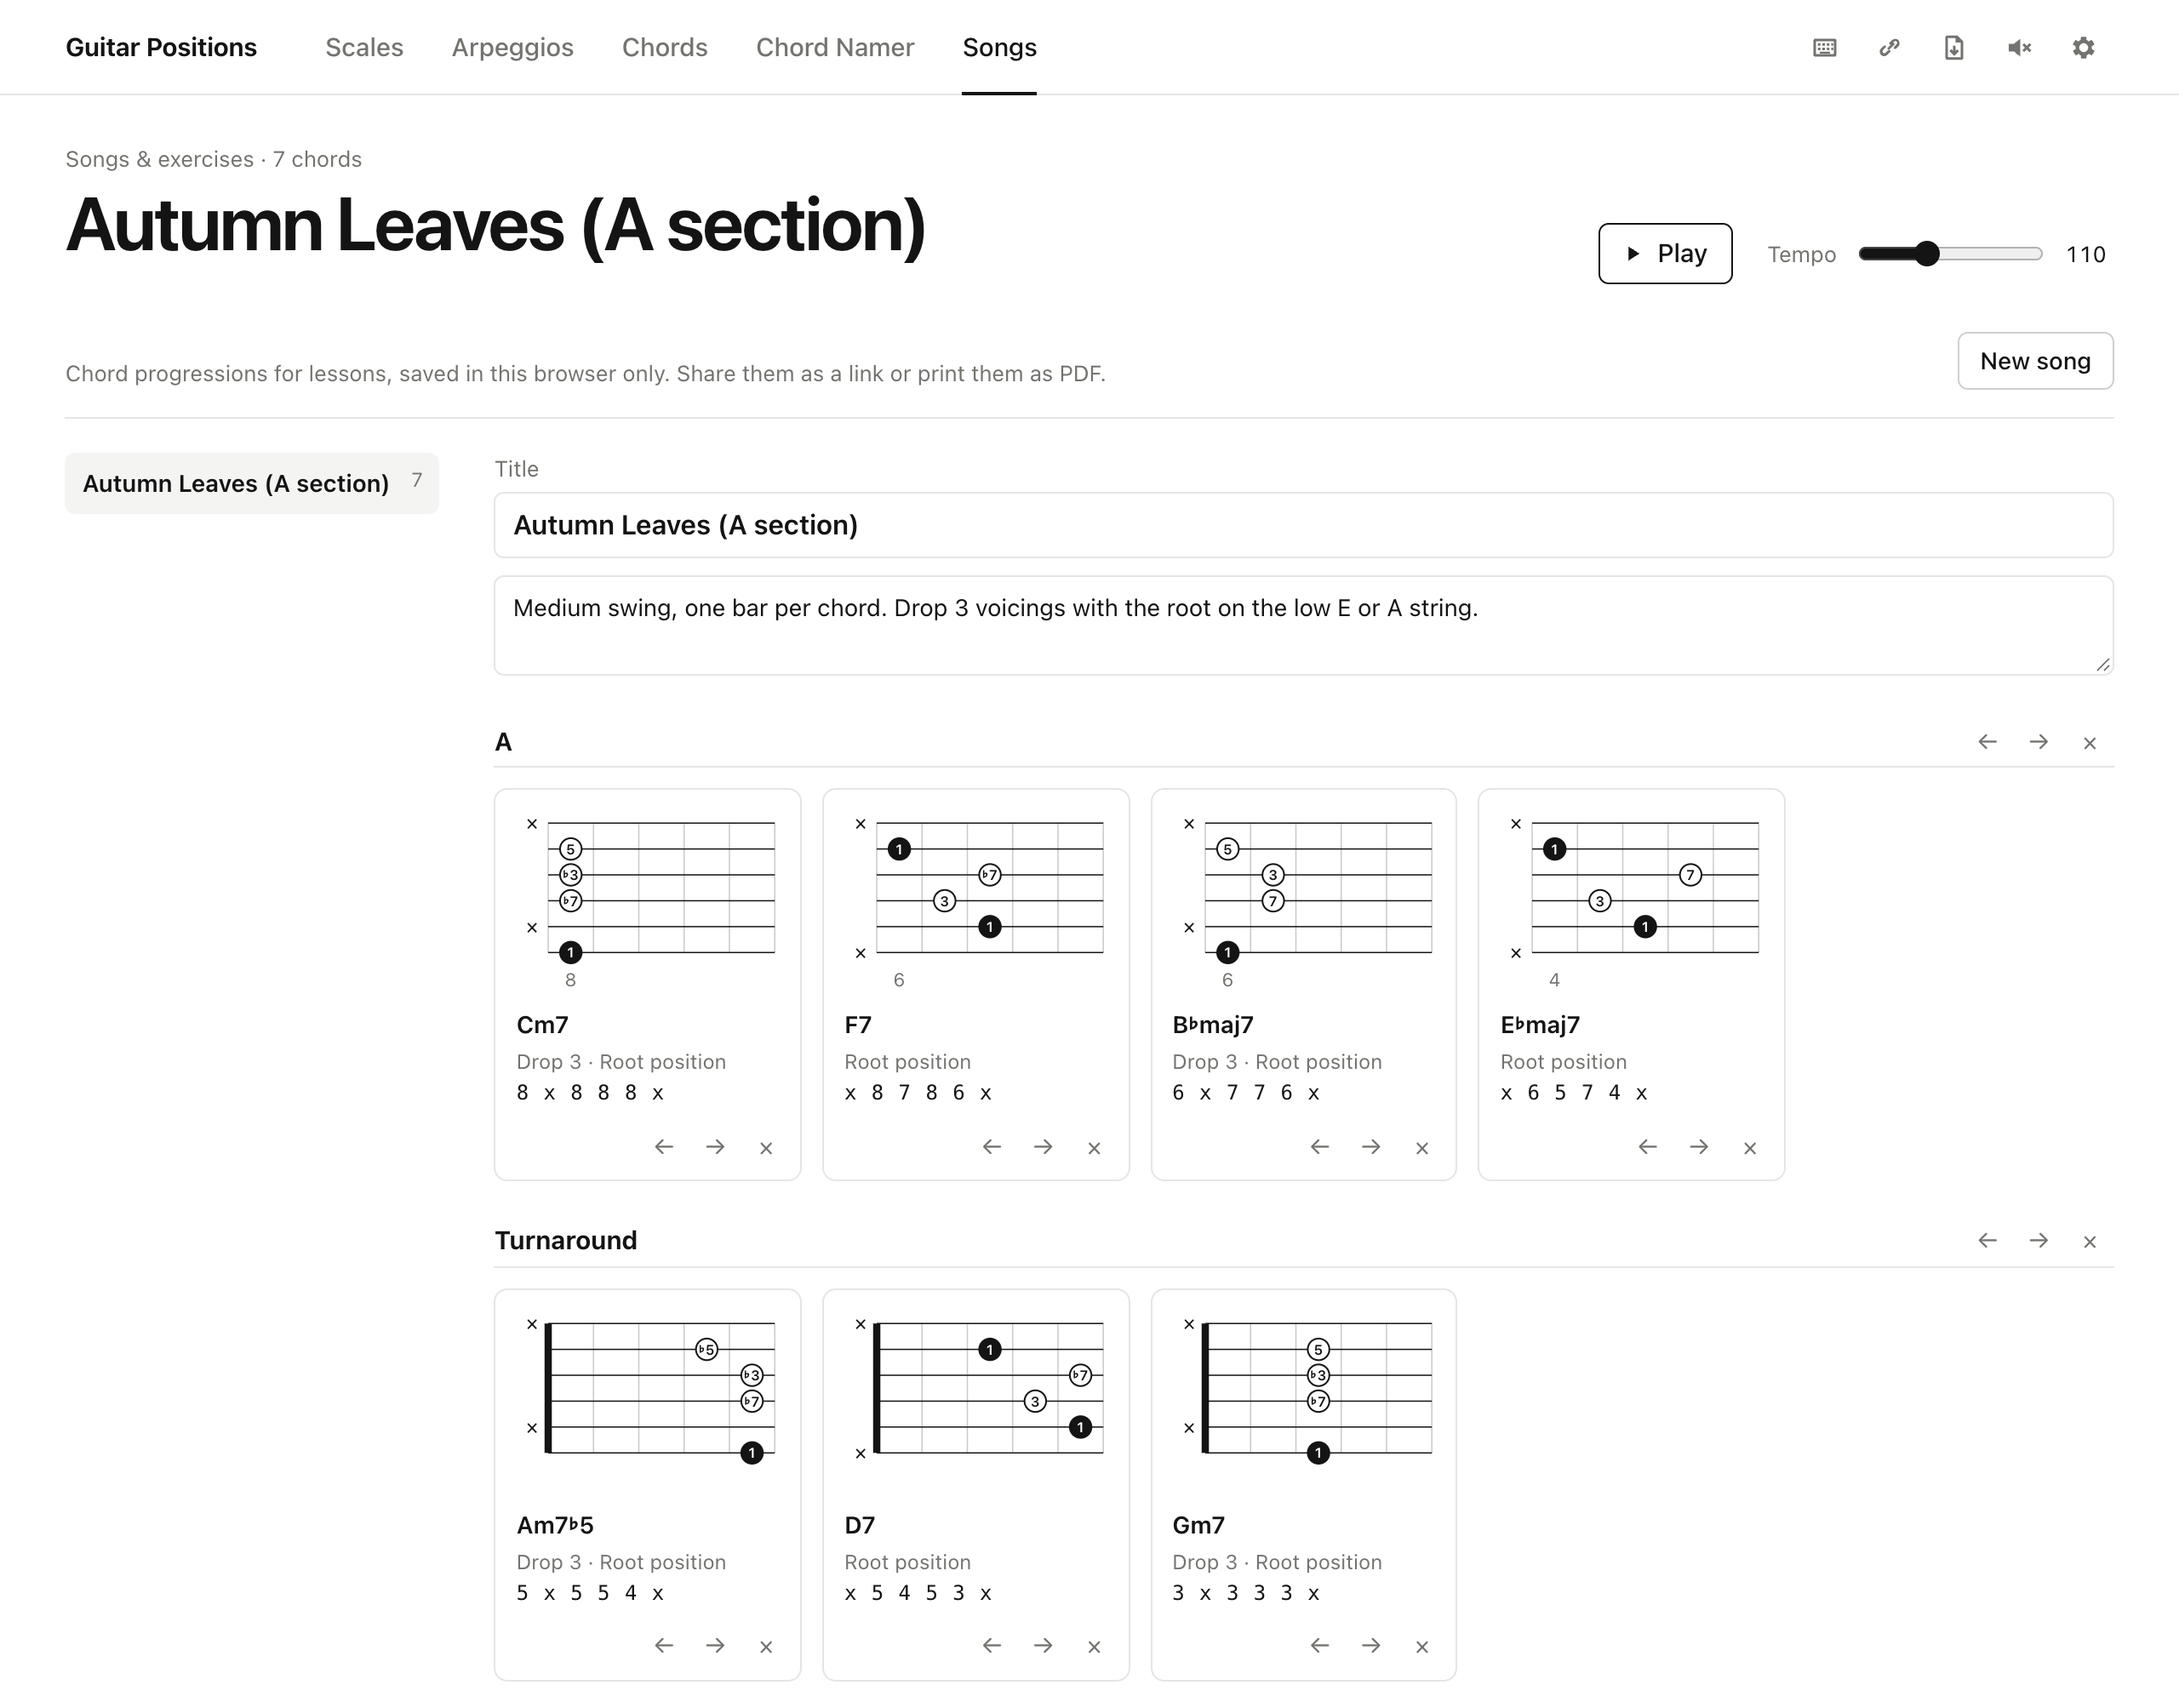
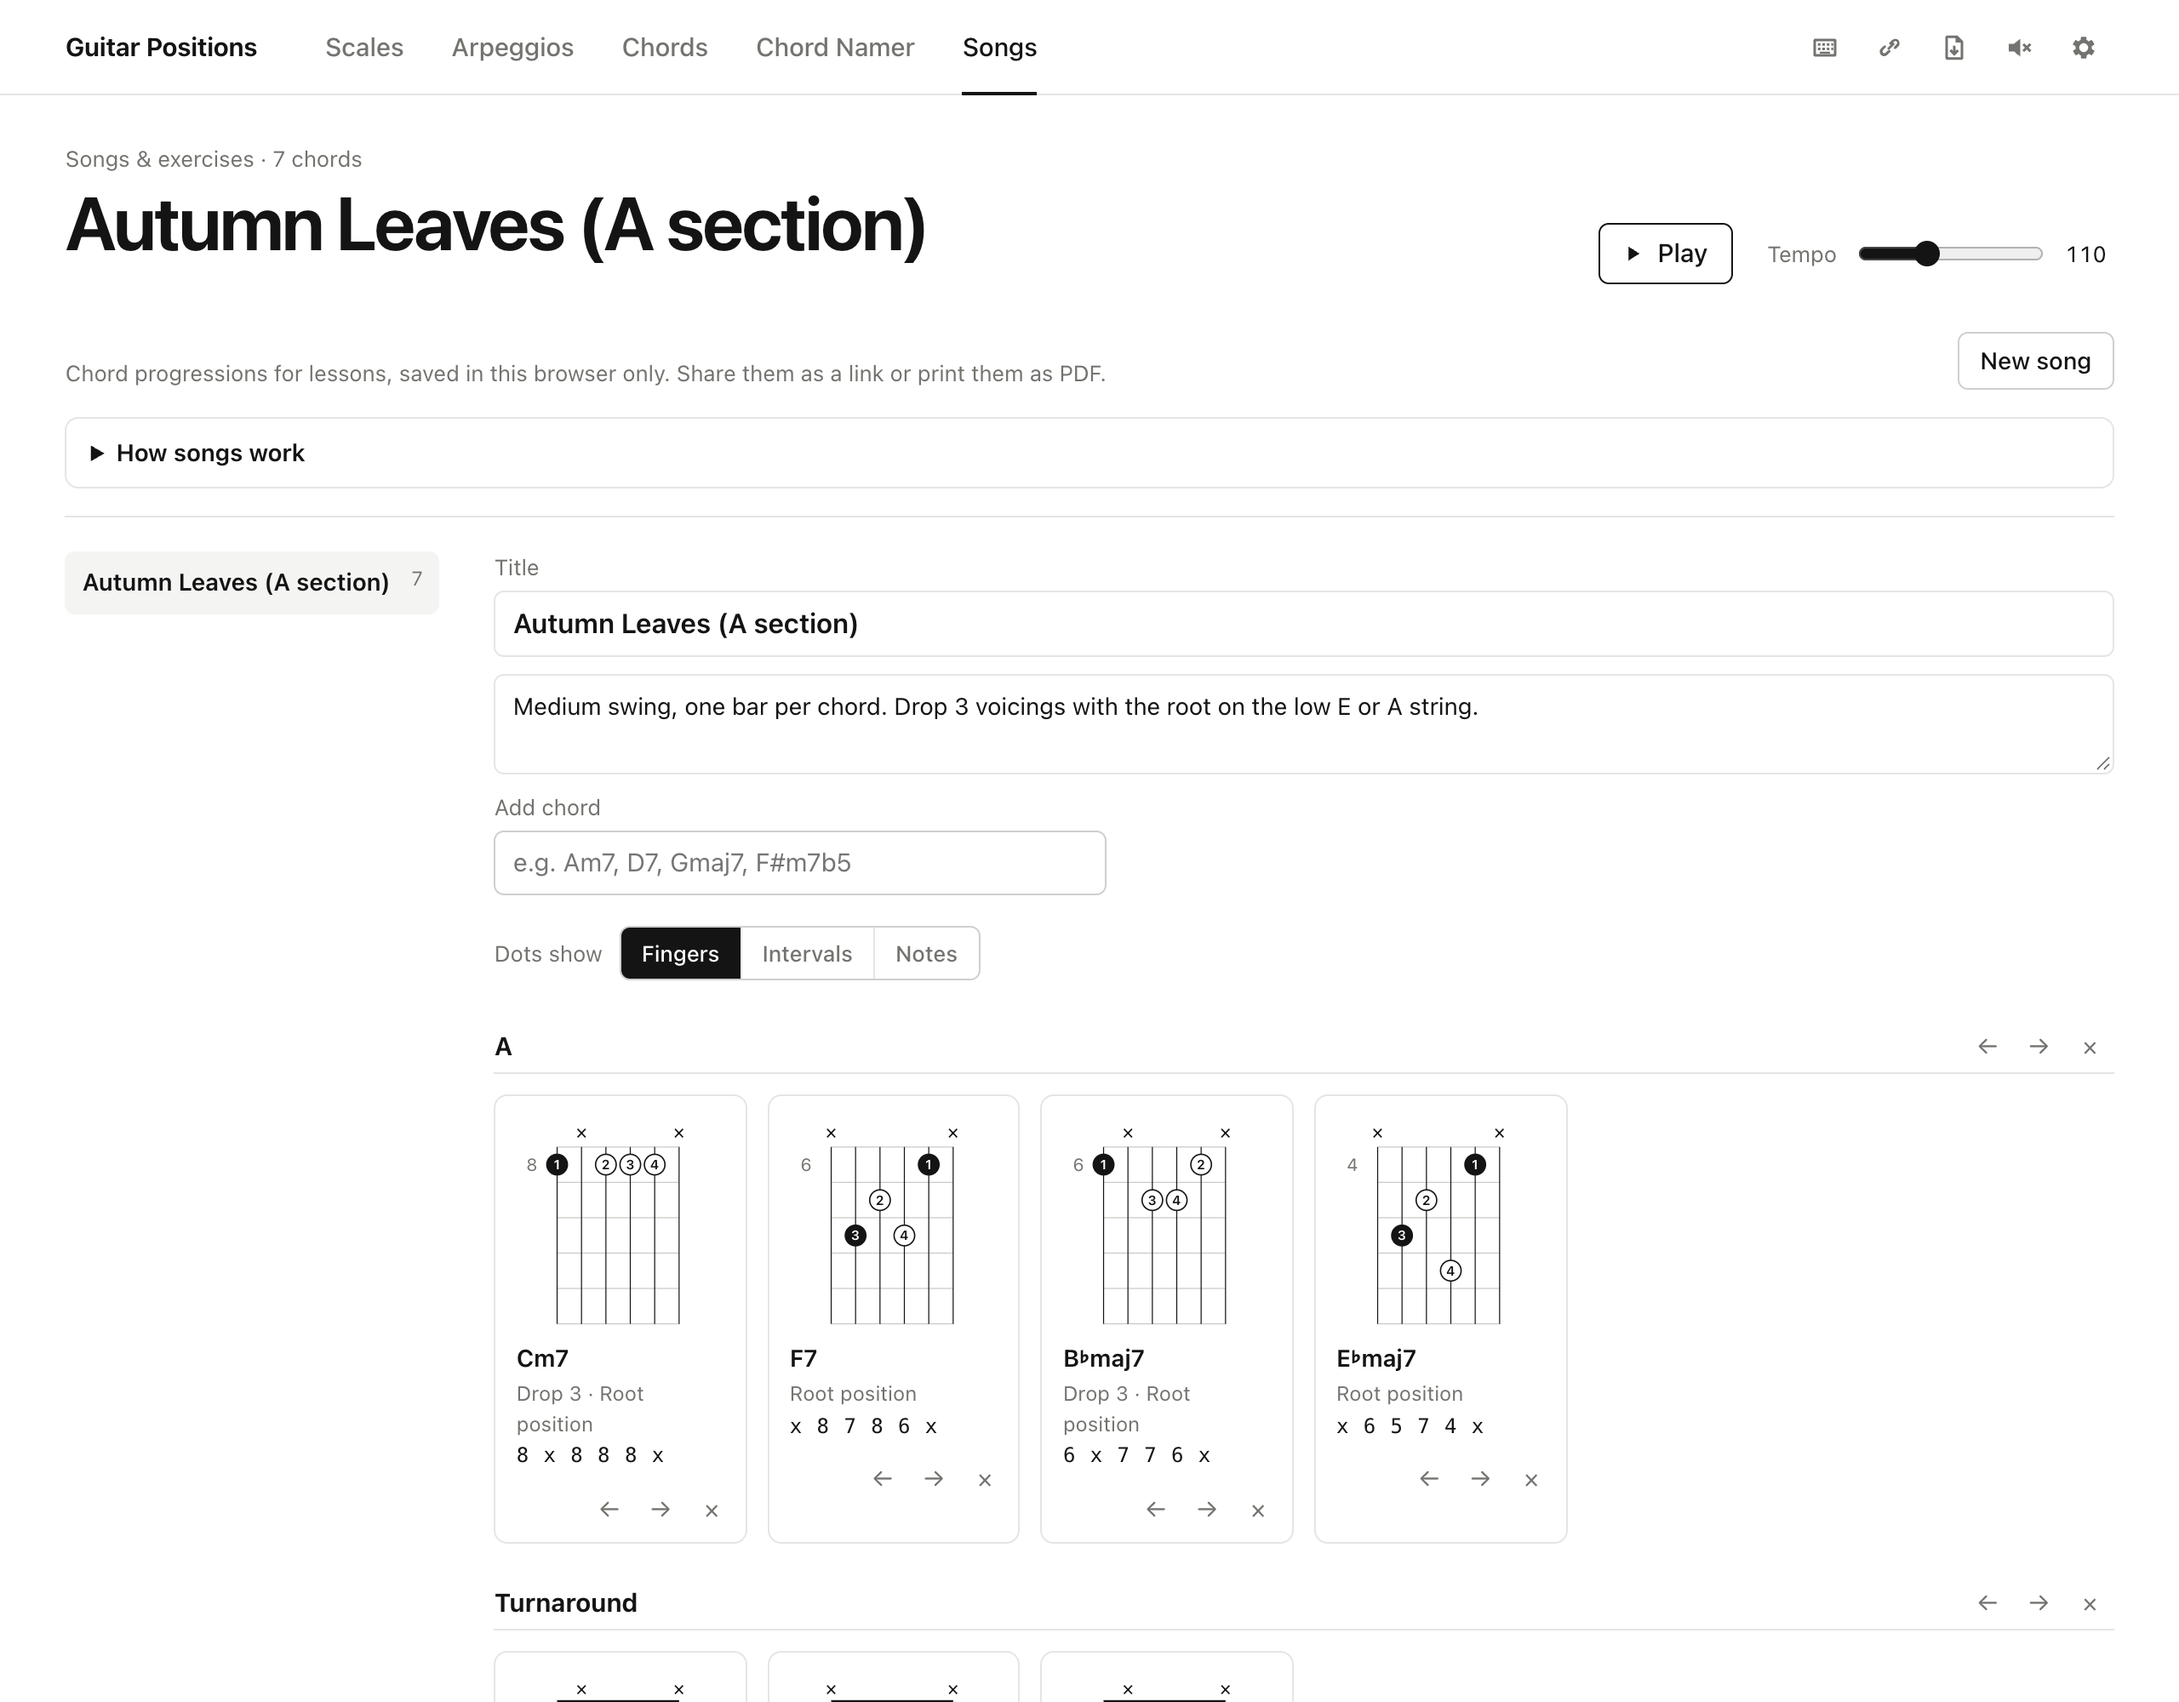
Document song follow-ups (#6-#8), refresh README and Songs screenshot

diff --git a/docs/feedback/2026-10-20-testsession.md b/docs/feedback/2026-10-20-testsession.md
@@ -68,3 +68,29 @@
 - Suspected location: no progression/song concept in the code yet. Chord voicings come from `findChordShapes`/`voicingTemplateShapes` (`static/studio/js/theory.js`, imported in `static/studio/js/app.js:4`). Current chord boxes in `static/studio/js/diagram.js:3` `chordDiagram()` are vertical (strings vertical, frets as rows, min 4 rows, no upper limit) – a horizontal, max-7-fret variant would be a new renderer option. Persistence options: URL-encoded (fits #3, no server storage), `localStorage` via the existing `store` helper (`app.js:14`), or a Django model (would need accounts → personal data, data-protection review).
 - Open: "Tate Green System" read as Ted Greene's chord-grid style – confirm. Horizontal with low E at the bottom or at the top? Should voicings wider than 7 frets be excluded or split? Should songs carry lyrics/sections/bars/rhythm or just a chord list? Where to store songs (link-only/local vs. server with accounts – the latter needs a GDPR assessment since students would be involved)? Should the Ted Greene grid also be offered in the normal Chord view?
 - Decision (2026-10-20): Stored locally in the browser (existing `store` helper) and shareable/printable as a link (song encoded in the URL); no accounts, no server storage. Content: title, optional note, ordered chords (root, type, chosen voicing), optional section dividers (Verse/Chorus). Ted Greene grid: horizontal, high E on top, low E at the bottom, nut on the left, 7 frets by default; wider voicings allowed, grid widens. Grid used in songs and PDF only; the Chord view keeps its vertical boxes.
+
+### #6 · Songs: where do the fingerings go? (adding chords was not discoverable)
+- Status: done (0c2e868)
+- Area: Songs
+- Type: Bug (usability) · Priority: hoch
+- Platform: all (shared Studio code)
+- Observation: In a song only sections could be entered; it was unclear how to add chords/fingerings (only via Chords view → "Add to song").
+- Expected: Add chords directly in the song; diagrams show the fingering.
+- Fix: "Add chord" field in the song editor (type a symbol, click one of the eight easiest fingerings, Enter takes the first); dots show finger numbers by default (switchable to intervals / note names, also on the PDF).
+
+### #7 · Chord diagrams always vertical
+- Status: done (de69142)
+- Area: Songs, PDF
+- Type: Wunsch · Priority: hoch
+- Platform: all
+- Observation: The horizontal (Ted Greene-style) grids from #5 are not wanted.
+- Expected: Fingering diagrams are always vertical.
+- Fix: chord boxes in songs and PDF sheets and the scale positions on PDF sheets are vertical (low string left, nut on top, start fret beside the box); only the whole-neck overview stays horizontal. Supersedes the orientation decision in #5.
+
+### #8 · Explain the song workflow
+- Status: done (0c2e868)
+- Area: Songs
+- Type: Wunsch · Priority: mittel
+- Platform: all
+- Expected: Short, user-friendly explanation of how songs work.
+- Fix: "How songs work" box (four steps: new song, add chords, arrange, share/PDF), open while there are no songs or the song is empty.

diff --git a/README.md b/README.md
@@ -12,7 +12,7 @@ Free, no account needed. Installable as a PWA; native apps for iOS, iPad, macOS 
 | **V-System voicings** | **Chord Namer** |
 | ![V-System voicings for Cmaj7](docs/screenshots/v-system.png) | ![Chord Namer recognising an open C chord](docs/screenshots/chord-namer.png) |
 | **Songs & exercises** | |
-| ![Songs view: a chord progression in Ted Greene style grids](docs/screenshots/songs.png) | |
+| ![Songs view: a chord progression with fingerings](docs/screenshots/songs.png) | |
 
 ## Features
 
@@ -22,7 +22,7 @@ Free, no account needed. Installable as a PWA; native apps for iOS, iPad, macOS 
 - **Search**: type a chord symbol such as `Em7`, `F#m7b5` or `Maj7#11` and get the chord, its V-System voicings, the arpeggio and fitting scales (Em7 → Dorian, Phrygian, Aeolian on E).
 - **Chord-scale theory** after Nettles/Graf: each scale lists the chords it is the chord scale for, with available tensions and avoid notes, plus the diatonic triads and sevenths; search and the Chord Namer suggest scales for a chord the same way. One click opens the shapes.
 - **Chord Namer**: tap a shape on the fretboard and get the chord name, alternatives and scales that fit.
-- **Songs & exercises**: collect chord progressions for lessons (title, note, sections, chosen voicings) in horizontal Ted Greene style grids. Saved in the browser only, no account.
+- **Songs & exercises**: collect chord progressions for lessons (title, note, sections, chosen voicings). Type a chord such as `Am7` and pick a fingering; diagrams show finger numbers, intervals or note names. Saved in the browser only, no account.
 - **Share & print**: every view, including the chosen voicing and songs, can be shared as a link; a PDF button creates a minimalist black-and-white A4 sheet (scale positions, chord shapes or a song).
 - **Instruments**: standard tuning, half step down, Drop D, DADGAD, open G/D, 7- and 8-string guitars, left-handed view, horizontal or vertical neck.
 - **Sound**: play scales and strum chords; keyboard shortcuts for everything (press `?`).
